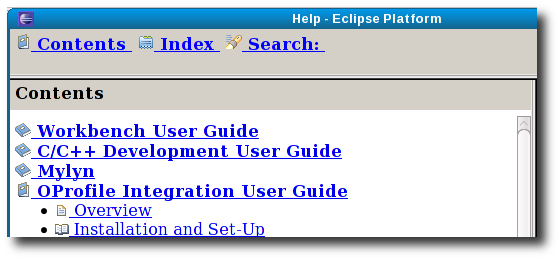
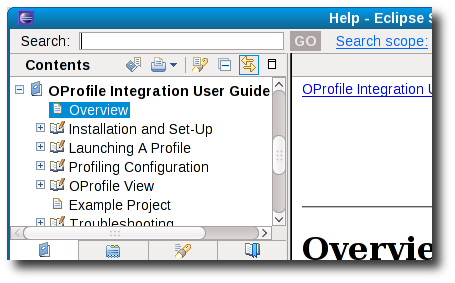
Better OProfile help screenshot.  Update bug count.  "will have" -> "has".

diff --git a/new-0.3/new.html b/new-0.3/new.html
@@ -17,7 +17,7 @@
 	    <i>19 August 2009</i></font></td>
 	    <td bgcolor="#E0D0E6" align="center">
 	    <a href="https://bugs.eclipse.org/bugs/buglist.cgi?query_format=advanced&short_desc_type=allwordssubstr&short_desc=&classification=Technology&product=Linux+Tools&target_milestone=0.3&long_desc_type=allwordssubstr&long_desc=&bug_file_loc_type=allwordssubstr&bug_file_loc=&status_whiteboard_type=allwordssubstr&status_whiteboard=&keywords_type=allwords&keywords=&bug_status=RESOLVED&bug_status=VERIFIED&bug_status=CLOSED&emailtype1=substring&email1=&emailtype2=substring&email2=&bugidtype=include&bug_id=&votes=&chfieldfrom=&chfieldto=Now&chfieldvalue=&cmdtype=doit&order=Reuse+same+sort+as+last+time&known_name=0.3.0&query_based_on=0.3.0&field0-0-0=noop&type0-0-0=noop&value0-0-0">
-	    <font size="1">93<br>bugs</font></a></td>
+	    <font size="1">94<br>bugs</font></a></td>
 	    <td bgcolor="#E0D0E6"><font size="1">
 	    People helped us with stuff.  Put any details here.
 	    </font></td>
@@ -235,7 +235,7 @@
 			<p align="right"><b>Eclipse Help User Guide</b></p>
 			</td>
 			<td valign="top" width="70%">
-			<p align="left">The Linux Tools 0.3.0 release will have the OProfile user guide (accessible <a href="http://wiki.eclipse.org/Linux_Tools_Project/OProfile/User_Guide">here</a> on the Eclipse wiki) available as a link in the Eclipse Help System.  
+			<p align="left">The Linux Tools 0.3.0 release has the OProfile user guide (accessible <a href="http://wiki.eclipse.org/Linux_Tools_Project/OProfile/User_Guide">here</a> on the Eclipse wiki) available as a link in the Eclipse Help System.  
 			</p>
 			<img border="0" alt="Eclipse Help System With OProfile Item" src="images/Screenshot-oprofile_userhelp.png">
 			</td>
